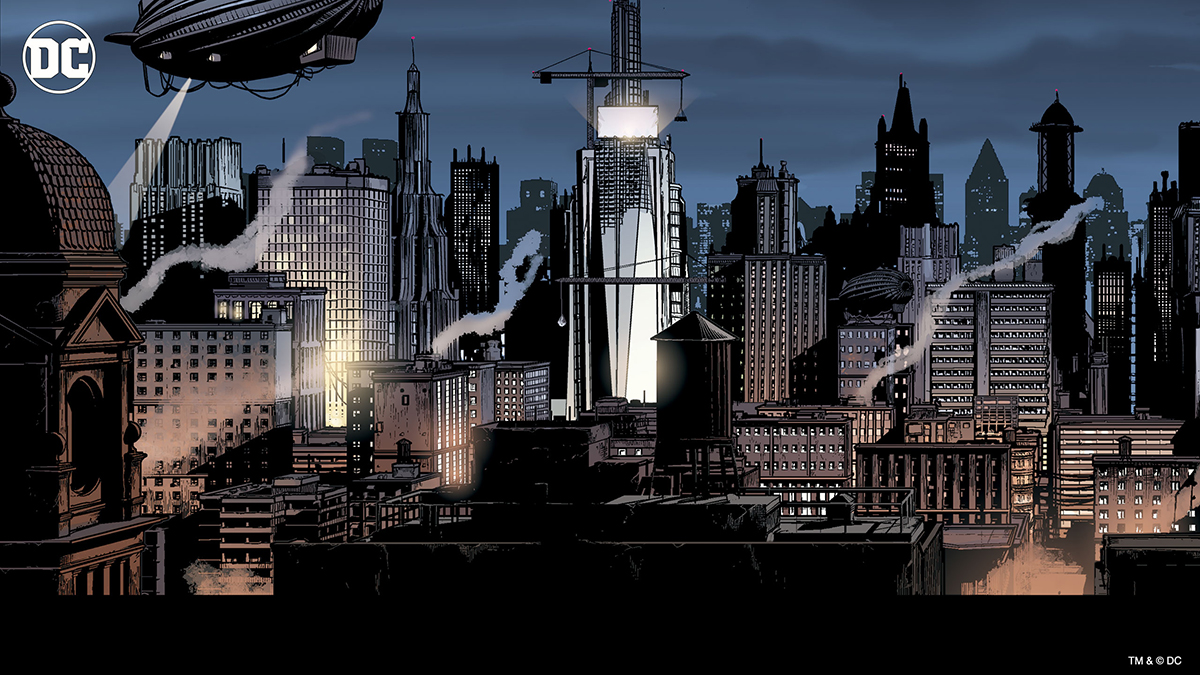
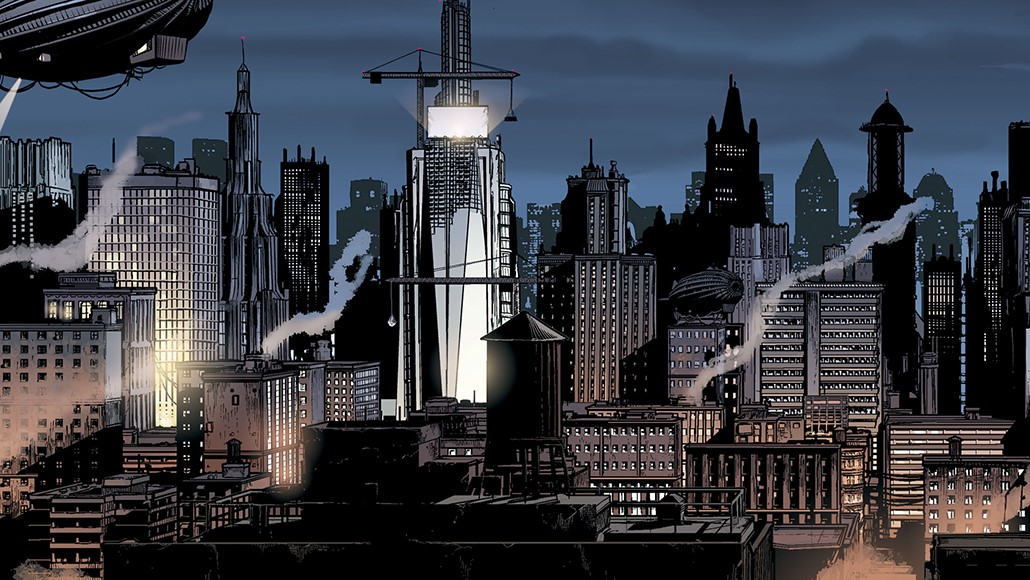
Navbar and Hero Section Complete

diff --git a/css/style.css b/css/style.css
@@ -1,0 +1,122 @@
+@import 'utility.css';
+
+:root{
+    --black: #000000;
+    --nav-bar: rgba(43, 43, 43, 0.523);
+    --content-bg: #2e2e2e;
+    --highlight: #ffd700;
+    --header: #0c2340;
+    --text: #b0b0b0;
+    --red: #8b0000;
+    --white: #ffffff;
+}
+
+*{
+    font-family: 'Bangers', sans-serif;
+    margin: 0;
+    padding: 0;
+    box-sizing: border-box;
+}
+
+html{
+    scroll-behavior: smooth;
+}
+
+header{
+    background: url('../images/gotham-2.jpg');
+    background-repeat: no-repeat;
+    background-size: cover;
+    height: 800px;
+    overflow: hidden;
+}
+
+.container{
+    padding: 0 15px;
+    margin: 0 auto;
+    position: relative;
+}
+
+.container .bats{
+    position: absolute;
+    opacity: 0;
+}
+
+.container nav{
+    width: 100%;
+    height: 60px;
+    background: linear-gradient(180deg, rgba(43, 43, 43, 1), rgba(43, 43, 43, 0));
+}
+
+header .container .left{
+    align-items: center;
+}
+
+header .container .left .logo{
+    height: 50px;
+    margin-left: 2rem;
+    cursor: pointer;
+}
+
+header .container .left .logo:hover .bats{
+    opacity: 1;
+}
+
+header .container .right{
+    align-items: center;
+    margin-right: 2rem;
+}
+
+header .container .right .nav-menu{
+    gap: 2.5rem;
+}
+
+header .container .right .nav-menu a{
+    text-decoration: none;
+    color: var(--black);
+    font-size: 1.7rem;
+    -webkit-text-stroke: 0.2px var(--white);
+    transition: all 300ms ease;
+}
+
+header .container .right .nav-menu a:hover{
+    color: var(--white);
+}
+
+header .hero{
+    flex-direction: column;
+    justify-content: center;
+    align-items: center;
+    margin-top: 2rem;
+    position: relative;
+}
+
+header .hero h1{
+    font-size: 10rem;
+    -webkit-text-stroke-width: 0.01px;
+    -webkit-text-stroke-color: var(--white);
+    z-index: 2;
+}
+
+header .hero span{
+    position: absolute;
+    right: 24.3%;
+    top: 11.7rem;
+    transform: rotate(20deg);
+    z-index: 4;
+    font-size: 1.4rem;
+}
+
+header .hero .batman{
+    position: absolute;
+    top: 35%;
+    z-index: 3;
+}
+
+header .hero .boom{
+    height: 150px;
+    position: absolute;
+    right: 20%;
+    top: 74%;
+    z-index: 1;
+    transform: rotate(20deg);
+}

diff --git a/html/index.html b/html/index.html
@@ -1,0 +1,41 @@
+<!DOCTYPE html>
+<html lang="en">
+
+<head>
+    <meta charset="UTF-8">
+    <meta name="viewport" content="width=device-width, initial-scale=1.0">
+    <title>Batman</title>
+    <link rel="stylesheet" href="../css/style.css">
+    <link rel="icon" href="../images/batman-icon.png">
+    <link rel="preconnect" href="https://fonts.googleapis.com">
+    <link rel="preconnect" href="https://fonts.gstatic.com" crossorigin>
+    <link href="https://fonts.googleapis.com/css2?family=Bangers&display=swap" rel="stylesheet">
+</head>
+
+<body>
+    <header>
+        <div class="container">
+            <nav class="flex justify-between">
+                <div class="left flex">
+                    <img src="../images/batman-logo.png" alt="Logo" class="logo">
+                </div>
+                <div class="right flex">
+                    <div class="nav-menu flex">
+                        <a href="#">Home</a>
+                        <a href="#">About</a>
+                        <a href="#">Joker</a>
+                        <a href="#">Contact</a>
+                    </div>
+                </div>
+            </nav>
+            <div class="hero flex">
+                <h1>BATMAN</h1>
+                <span>He Is Vengence!</span>
+                <img src="../images/batman.png" alt="Batman" class="batman">
+                <img src="../images/boom.png" alt="Boom" class="boom">
+            </div>
+        </div>
+    </header>
+</body>
+
+</html>

diff --git a/css/utility.css b/css/utility.css
@@ -1,0 +1,11 @@
+.flex{
+    display: flex;
+}
+
+.justify-between{
+    justify-content: space-between;
+}
+
+.items-center{
+    justify-content: center;
+}
